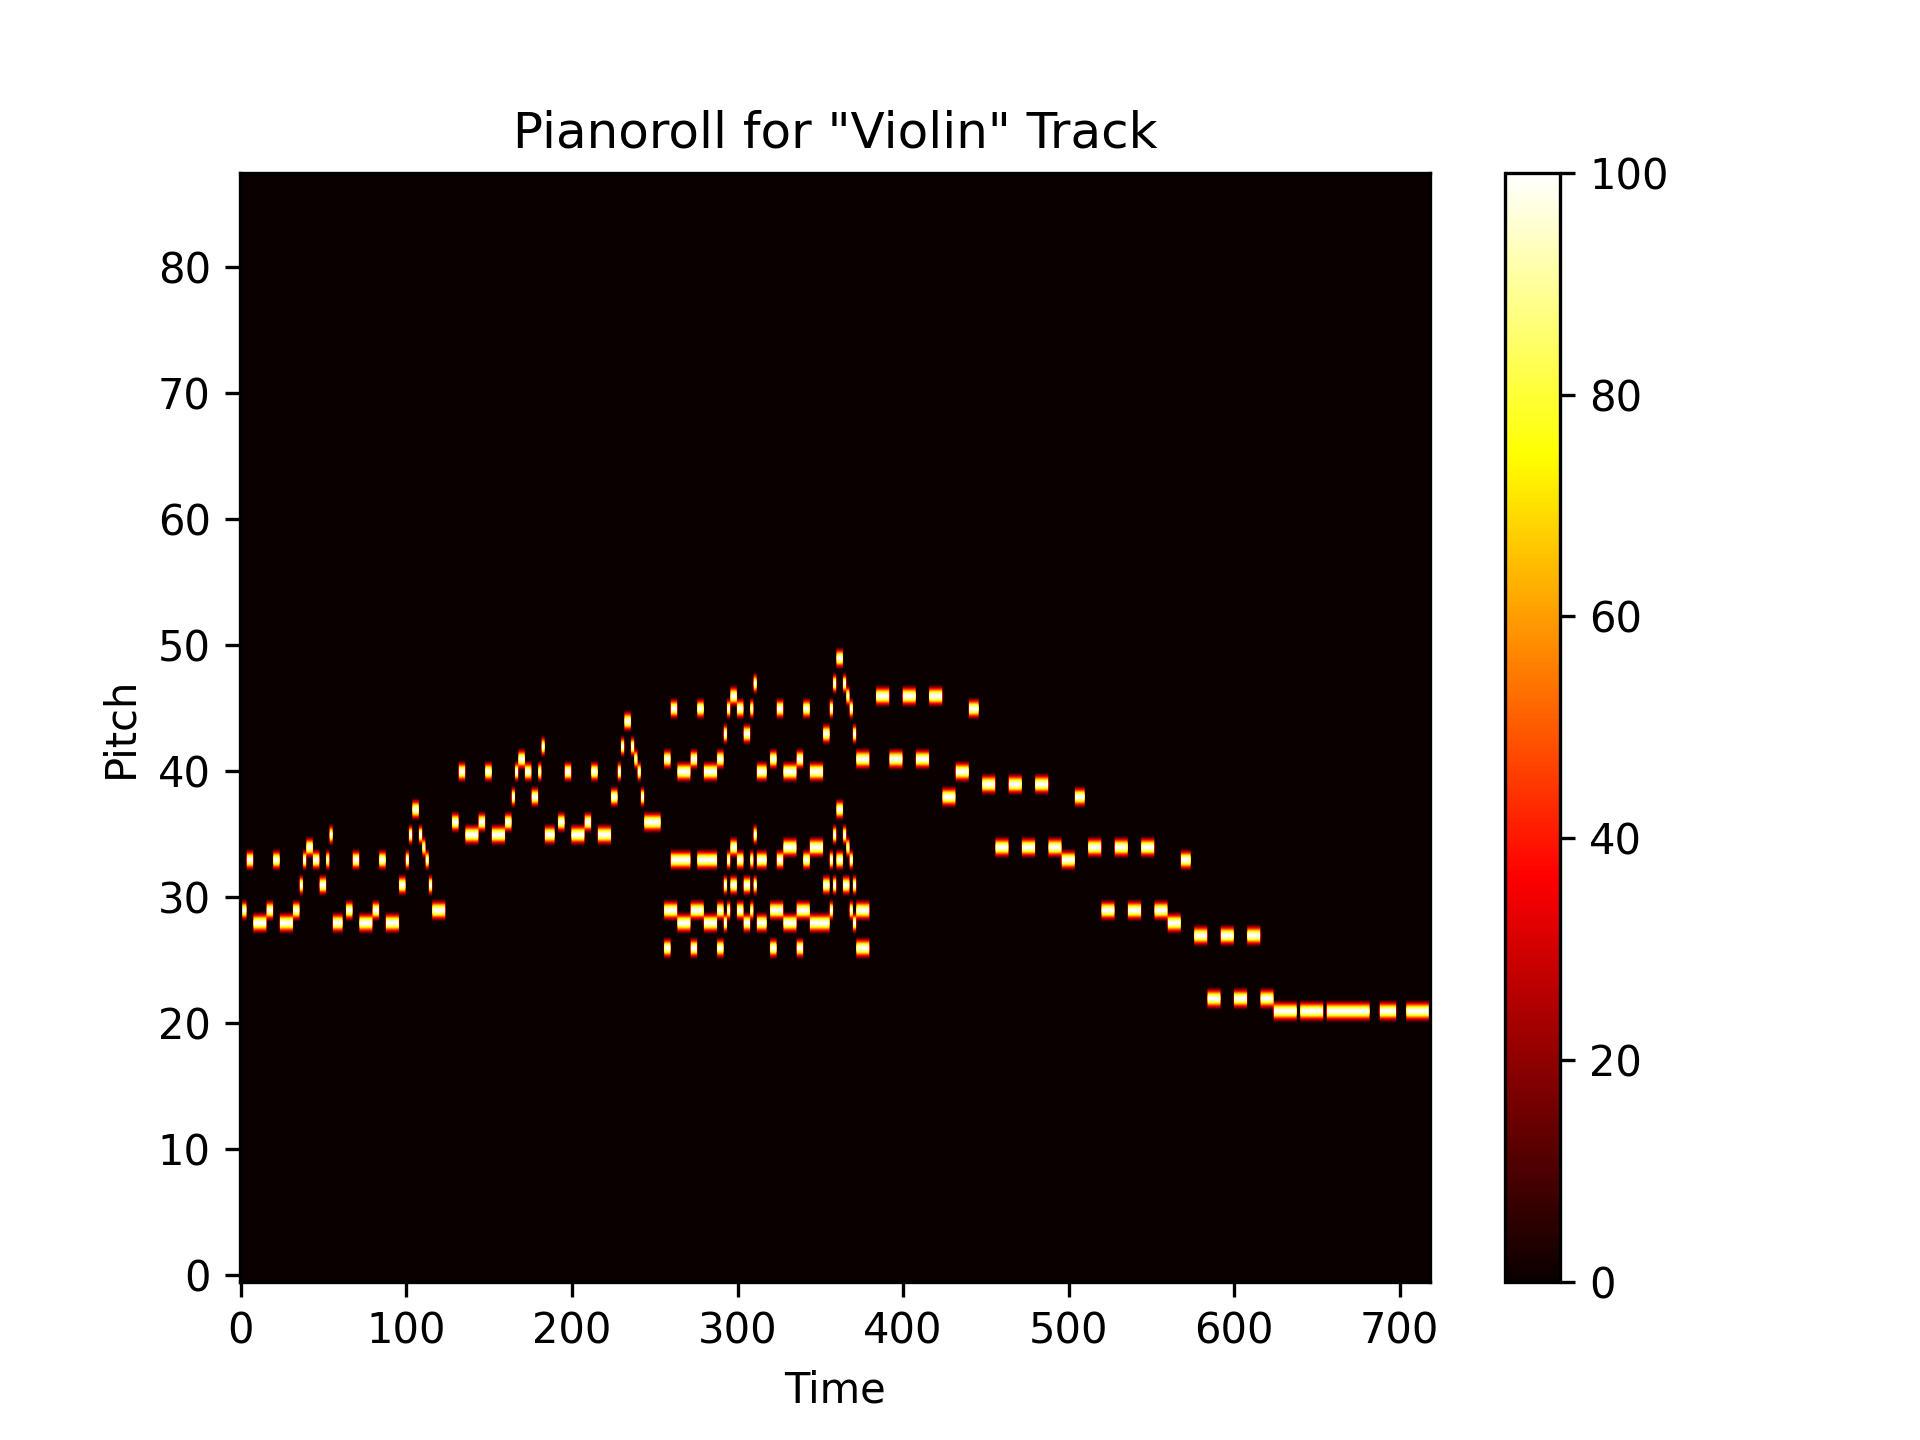
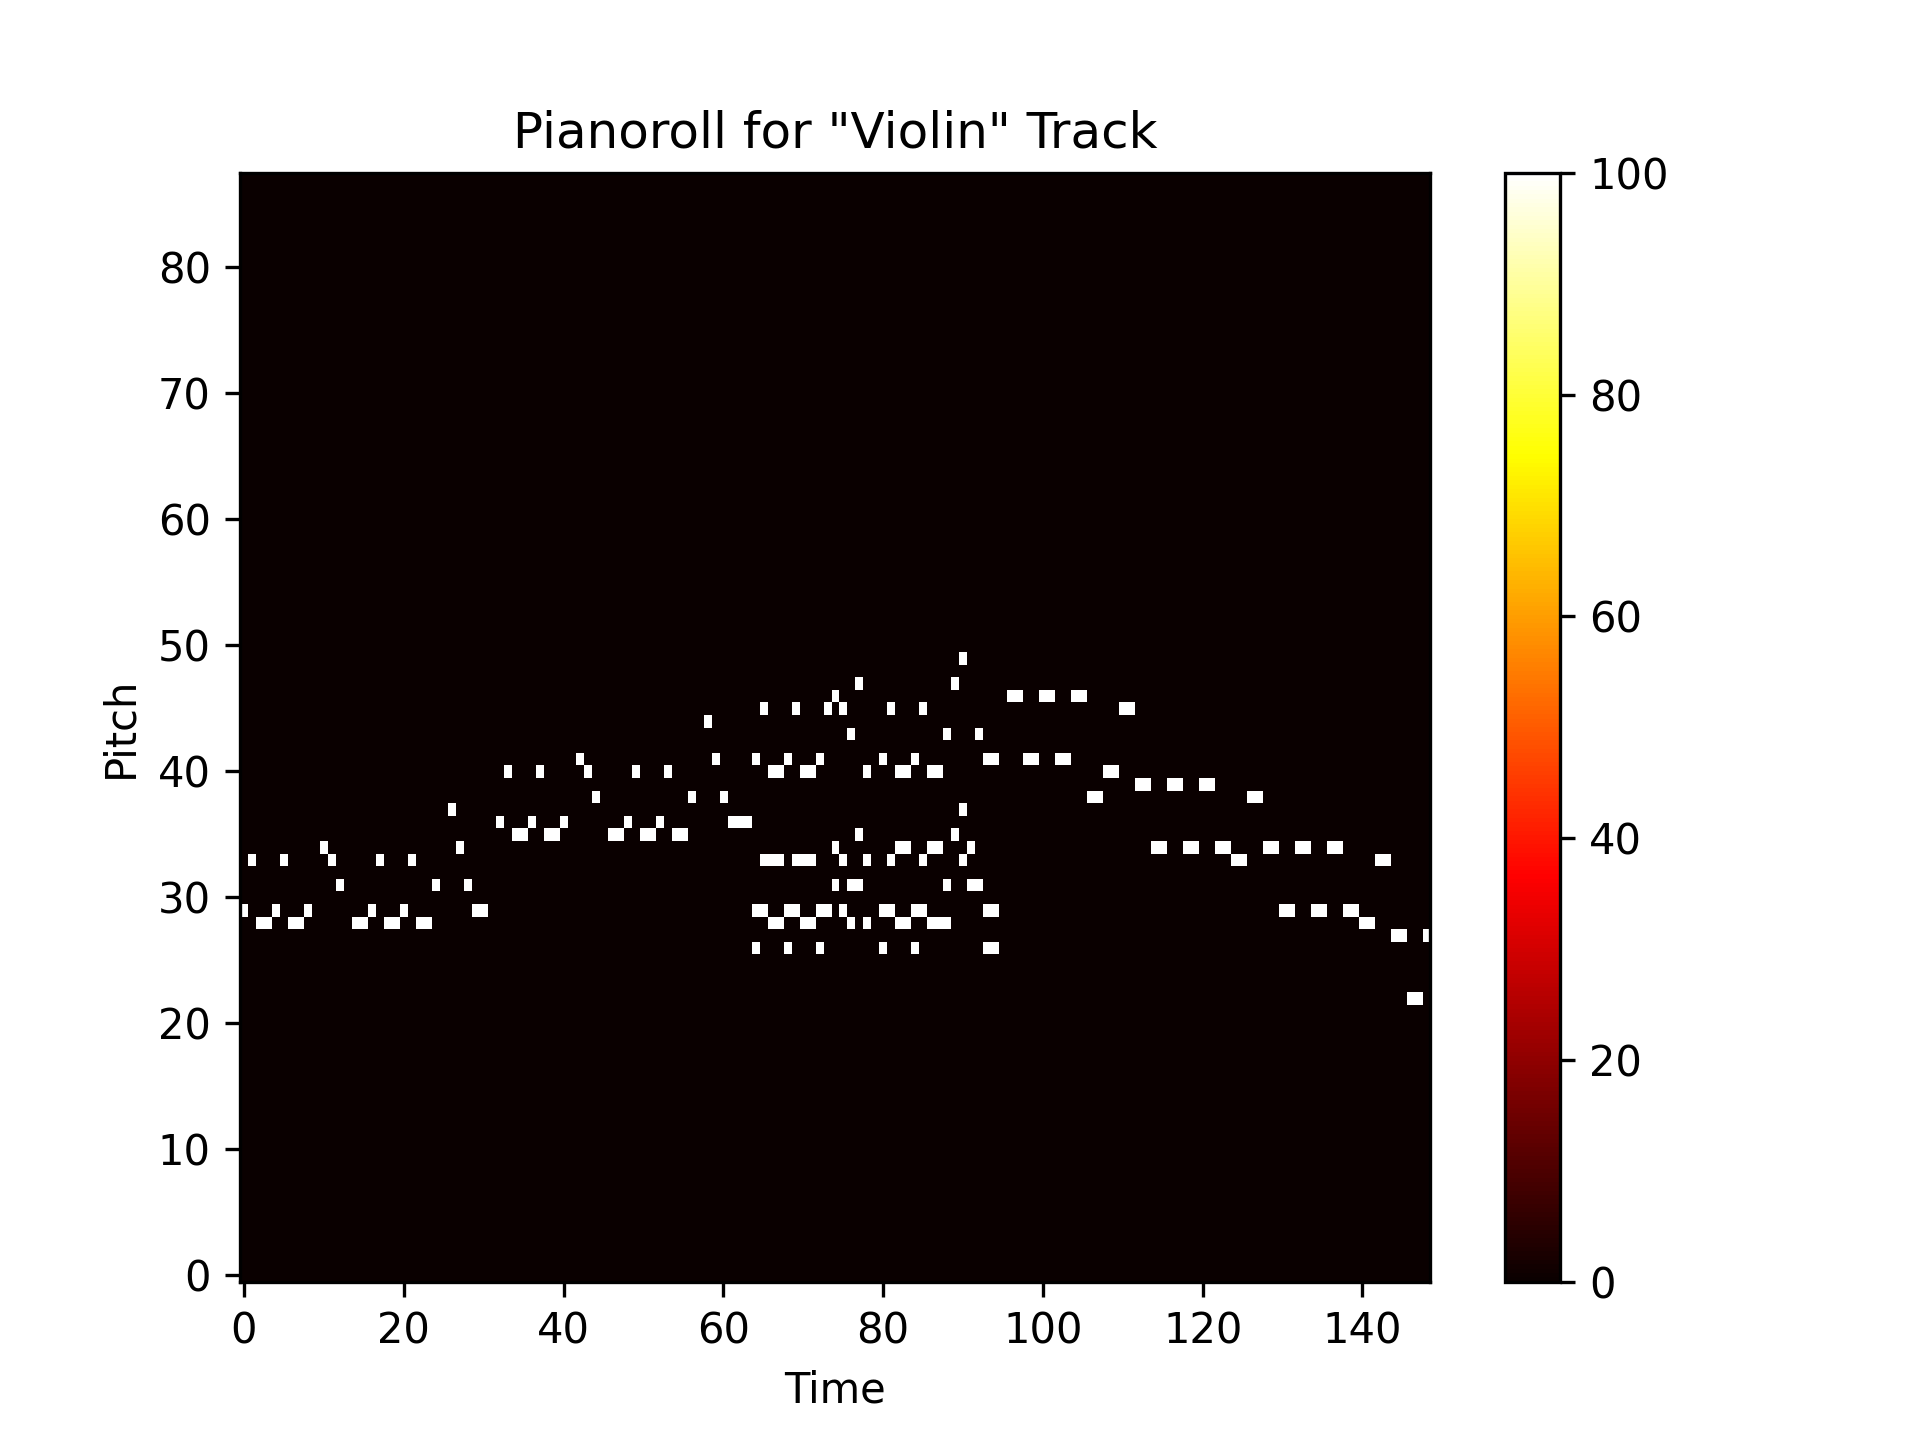
修改了横轴单位，从拍改成了秒

diff --git a/read_midi.py b/read_midi.py
@@ -8,6 +8,7 @@ import numpy as np
 #######
 # Pianorolls dims are  :   TIME  *  PITCH
 
+## TODO: 修改时间单位从ticks到指定的frames
 
 class Read_midi(object):
     def __init__(self, song_path, quantization):
@@ -21,6 +22,8 @@ class Read_midi(object):
         ## Private misc
         self.__num_ticks = None
         self.__T_file = None
+        self.__beats_per_second = None
+        
 
     @property
     def quantization(self):
@@ -50,6 +53,7 @@ class Read_midi(object):
                 time = float(message.time)
                 tick_counter += time
             num_ticks = max(num_ticks, tick_counter)
+        #print("num_ticks", num_ticks)
         self.__num_ticks = num_ticks
 
     def get_pitch_range(self):
@@ -69,17 +73,37 @@ class Read_midi(object):
     def get_time_file(self):
         # Get the time dimension for a pianoroll given a certain quantization
         mid = MidiFile(self.__song_path)
-        # Tick per beat
-        ticks_per_beat = mid.ticks_per_beat
+        # Beat per minute
+        tempo = None
+        for msg in mid.tracks[0]:
+            if msg.type == 'set_tempo':
+                tempo = msg.tempo
+                break
+        
+        if tempo is not None:
+            microseconds_per_beat = tempo
+            self.__beats_per_second = 1e6 / microseconds_per_beat
+            print(self.__beats_per_second)
+            # Tick per beat
+            ticks_per_beat = mid.ticks_per_beat
+            # ticks_per_second = ticks_per_beat * beats_per_second
+        else:
+            raise ValueError("Tempo information was not found in the MIDI file.")
+            
         # Total number of ticks
         self.get_total_num_tick()
+        
+        # 将以拍为单位转成以秒为单位
+        self.__quantization = 1. / self.__beats_per_second
+        
         # Dimensions of the pianoroll for each track
         self.__T_file = int((self.__num_ticks / ticks_per_beat) * self.__quantization)
         return self.__T_file
-
+        
     def read_file(self):
         # Read the midi file and return a dictionnary {track_name : pianoroll}
         mid = MidiFile(self.__song_path)
+
         # Tick per beat
         ticks_per_beat = mid.ticks_per_beat
 
@@ -118,20 +142,6 @@ class Read_midi(object):
             time_counter = 0
             notes_on = []
             for message in track:
-
-                ##########################################
-                ##########################################
-                ##########################################
-                # TODO : keep track of tempo information
-                # import re
-                # if re.search("tempo", message.type):
-                #     import pdb; pdb.set_trace()
-                ##########################################
-                ##########################################
-                ##########################################
-
-
-                # print message
                 # Time. Must be incremented, whether it is a note on/off or not
                 time = float(message.time)
                 time_counter += time / ticks_per_beat * self.__quantization
@@ -177,9 +187,10 @@ class Read_midi(object):
 if __name__ == '__main__':
     filepath = "/data/xyth/Dataset/stringquad_midi/aasesdeath/aasesdeath.MID"
     aaa = Read_midi(filepath, 4).read_file()
-    print(aaa)
+    #print(aaa)
     # print(aaa['Violin'].shape)
-
+    print(Read_midi(filepath, 1).get_time_file())
+    # 使用示例
     import matplotlib.pyplot as plt
 
     # 假设 aaa 是从 Read_midi 类的 read_file 方法返回的钢琴卷字典
@@ -194,7 +205,8 @@ if __name__ == '__main__':
     plt.title('Pianoroll for "Violin" Track')
 
     # 保存图像到文件，你可以指定文件格式和分辨率
-    plt.savefig('cello_pianoroll.png', format='png', dpi=300)
+    plt.savefig('cello_11_pianoroll.png', format='png', dpi=300)
 
     # 关闭图形，释放资源
     plt.close()
+    
